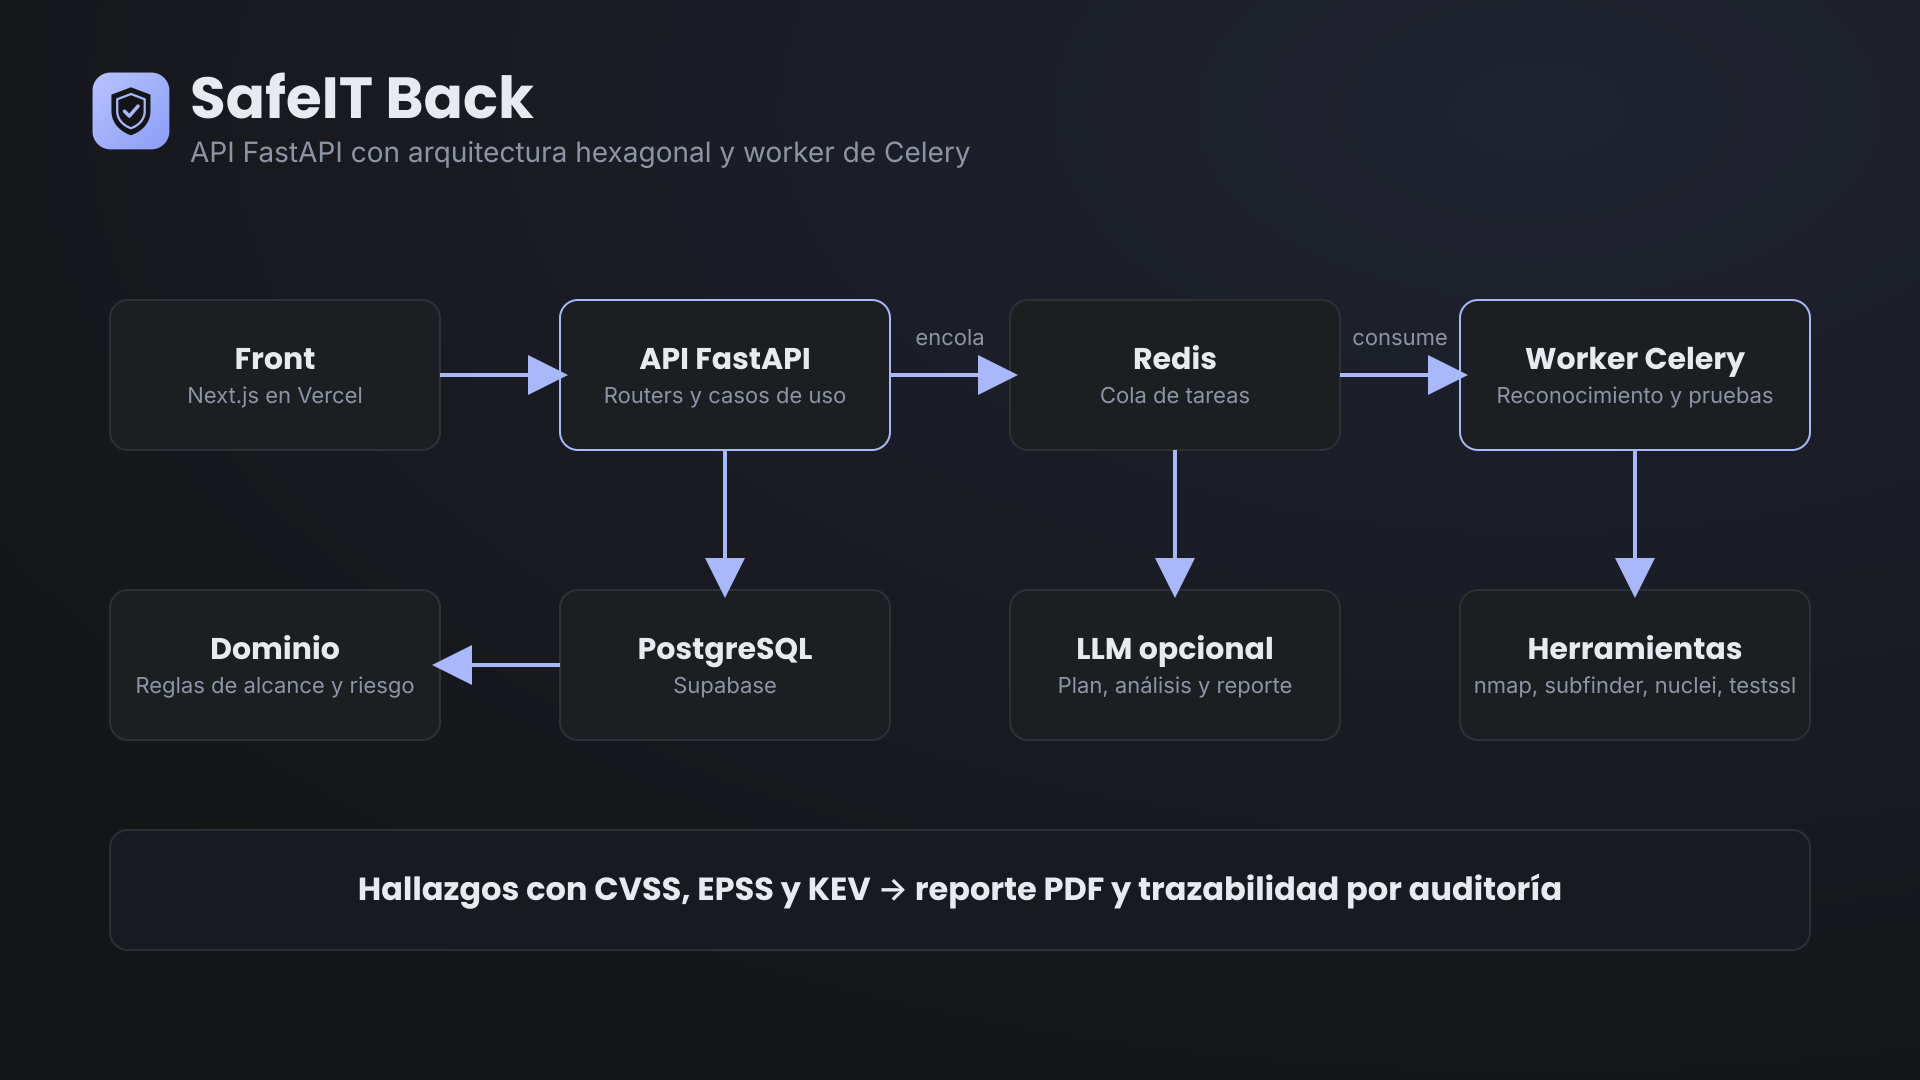
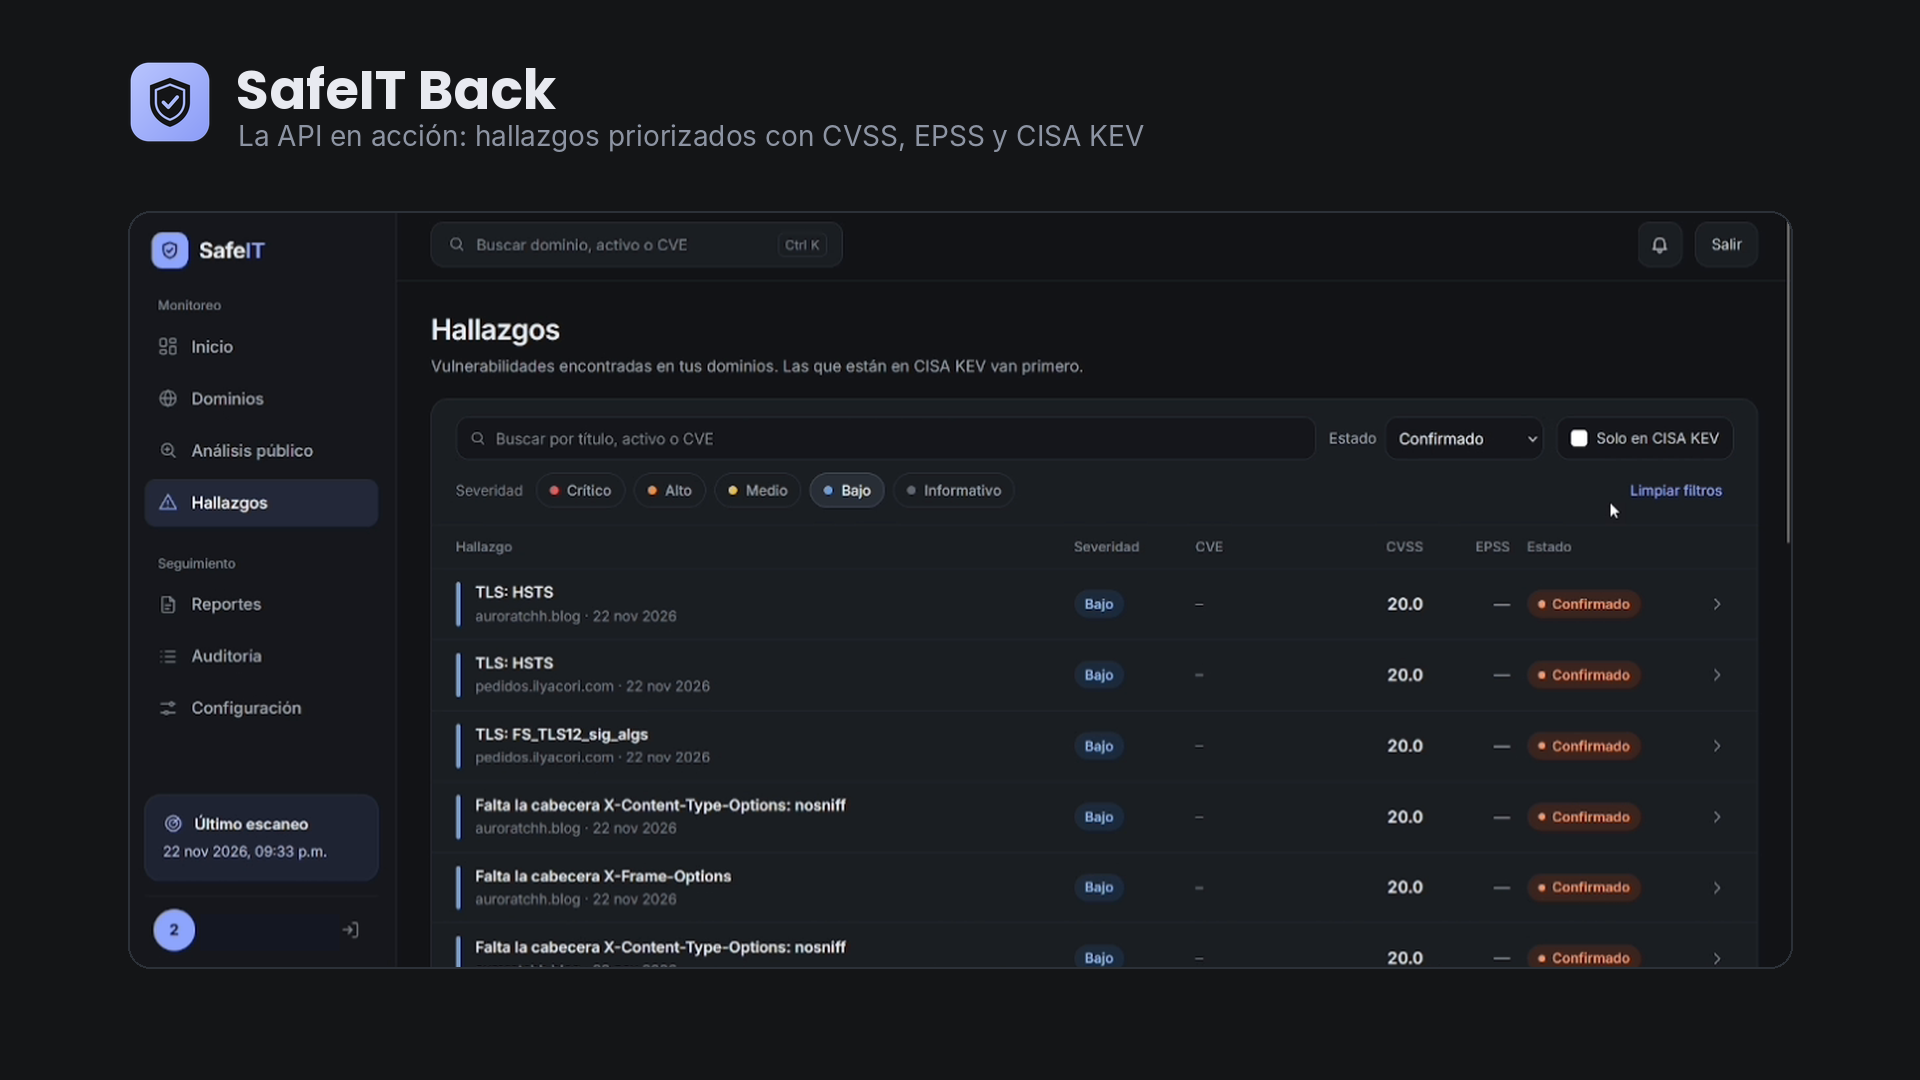
Usa la interfaz funcionando como vista previa y agrega el diagrama de flujo

diff --git a/README.md b/README.md
@@ -4,12 +4,15 @@
   <img src="logo.png" alt="Logo de SafeIT" width="120">
 </p>
 
-![Vista previa de safeit-back](preview.png)
+![Interfaz de SafeIT funcionando](preview.png)
+
+![Flujo de safeit-back](flujo.png)
 
 | Recurso | Ruta en el repositorio | URL |
 |---|---|---|
 | Logo | `/logo.png` | https://raw.githubusercontent.com/Ilyavosky/safeit-back/main/logo.png |
-| Vista previa | `/preview.png` | https://raw.githubusercontent.com/Ilyavosky/safeit-back/main/preview.png |
+| Vista previa (interfaz funcionando) | `/preview.png` | https://raw.githubusercontent.com/Ilyavosky/safeit-back/main/preview.png |
+| Flujo | `/flujo.png` | https://raw.githubusercontent.com/Ilyavosky/safeit-back/main/flujo.png |
 
 Backend de SafeIT (FastAPI, arquitectura hexagonal). Plan de desarrollo por fases en `../PLAN-DESARROLLO-BACKEND.md`.
 
